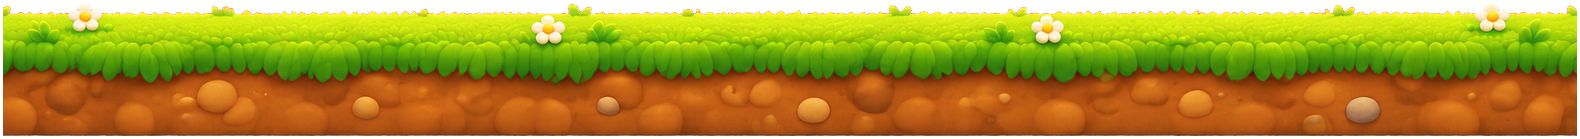
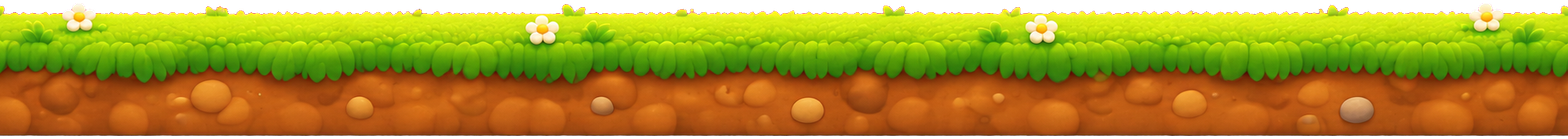
Bunny Run: ground strip without seams, feet planted in the grass, flying friends kept below the progress bar

diff --git a/EvasLearningWorld/Assets/Eva/App/Screens/PlatformerScreen.cs b/EvasLearningWorld/Assets/Eva/App/Screens/PlatformerScreen.cs
@@ -59,8 +59,8 @@ namespace EvasLearningWorld.App
         }
 
         private const float GroundY = -230f; // the surface the bunny runs on
-        private const float StripWidth = 2820f; // the strip picture is 1962x160, so 2820x230 keeps its proportions
-        private const float StripHeight = 230f;
+        private const float StripWidth = 2764f; // the strip picture is 1568x139, so 2764x245 keeps its proportions
+        private const float StripHeight = 245f;
         private const float BackgroundWidth = 1920f;
         private const float BackgroundParallax = 0.1f;
         private const float BunnyScreenX = -380f;
@@ -269,7 +269,7 @@ namespace EvasLearningWorld.App
                 _friends.Add(new Friend { Rect = rect, Start = i * 900f, Drift = 22f + i * 9f, Height = 150f + i * 55f, Phase = i * 2.1f });
             }
 
-            _ground = NewStrip(_field, "Ground", StripWidth, GroundY, false);
+            _ground = NewStrip(_field, "Ground", StripWidth, GroundY + 22f, false) /* grass tufts reach 22 units above the line the feet stand on */;
 
             for (var i = 0; i < ObstaclePool; i++)
             {
@@ -310,14 +310,14 @@ namespace EvasLearningWorld.App
                     rect.anchorMin = new Vector2(0.5f, 0f);
                     rect.anchorMax = new Vector2(0.5f, 1f);
                     rect.pivot = new Vector2(0.5f, 0.5f);
-                    rect.sizeDelta = new Vector2(width, 0f);
+                    rect.sizeDelta = new Vector2(width + 6f, 0f); // 3 units of overlap each side hide the seam
                     rect.anchoredPosition = Vector2.zero;
                 }
                 else
                 {
                     rect.anchorMin = rect.anchorMax = new Vector2(0.5f, 0.5f);
                     rect.pivot = new Vector2(0.5f, 1f);
-                    rect.sizeDelta = new Vector2(width, StripHeight);
+                    rect.sizeDelta = new Vector2(width + 6f, StripHeight);
                     rect.anchoredPosition = new Vector2(0f, topY);
                 }
                 strip.Slots.Add(rect);
@@ -368,10 +368,10 @@ namespace EvasLearningWorld.App
                 const float span = 2800f;
                 var along = (f.Start + Time.time * f.Drift + d.Scroll * 0.3f) % span;
                 var x = 1400f - along;
-                var y = 130f + f.Height + Mathf.Sin(Time.time * 2f + f.Phase) * 22f;
+                var y = 60f + f.Height * 0.55f + Mathf.Sin(Time.time * 2f + f.Phase) * 18f; // below the progress bar
                 var sprite = EvaUi.Sprite(FriendSprites[i]);
                 f.Rect.GetComponent<Image>().sprite = sprite;
-                f.Rect.sizeDelta = sprite.rect.size * 0.32f;
+                f.Rect.sizeDelta = sprite.rect.size * 0.26f;
                 f.Rect.anchoredPosition = new Vector2(x, y);
                 f.Rect.localScale = new Vector3(-1f, 1f, 1f); // they fly towards the left, as the world slides
             }
